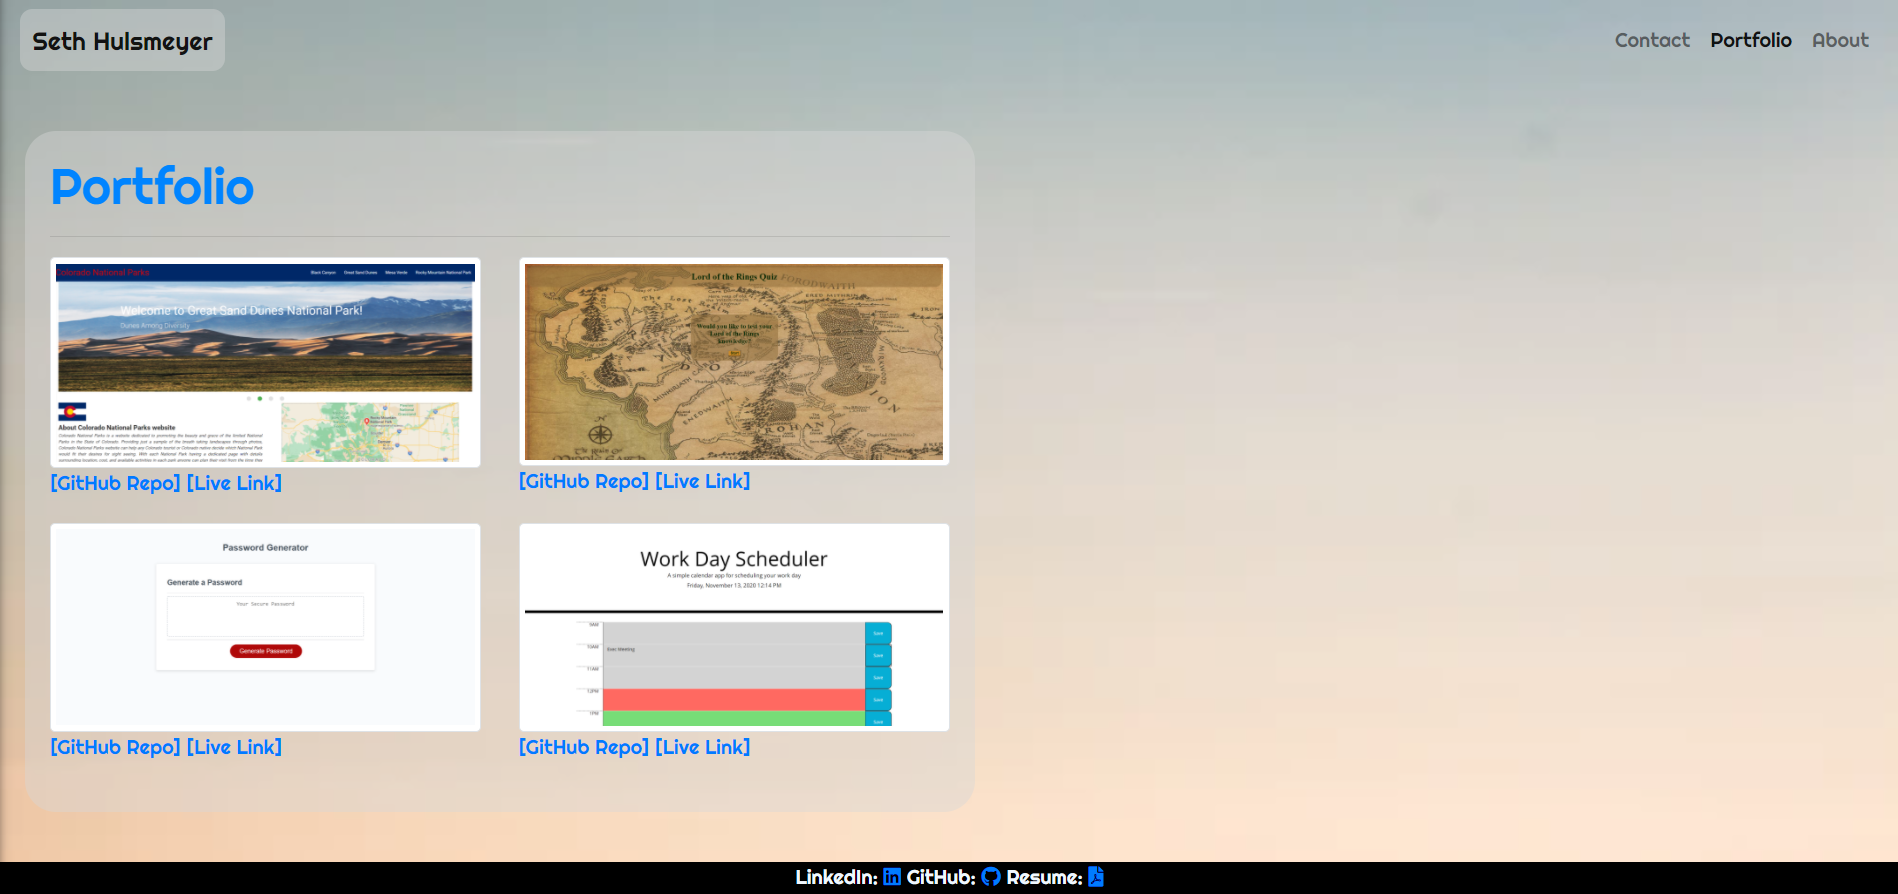
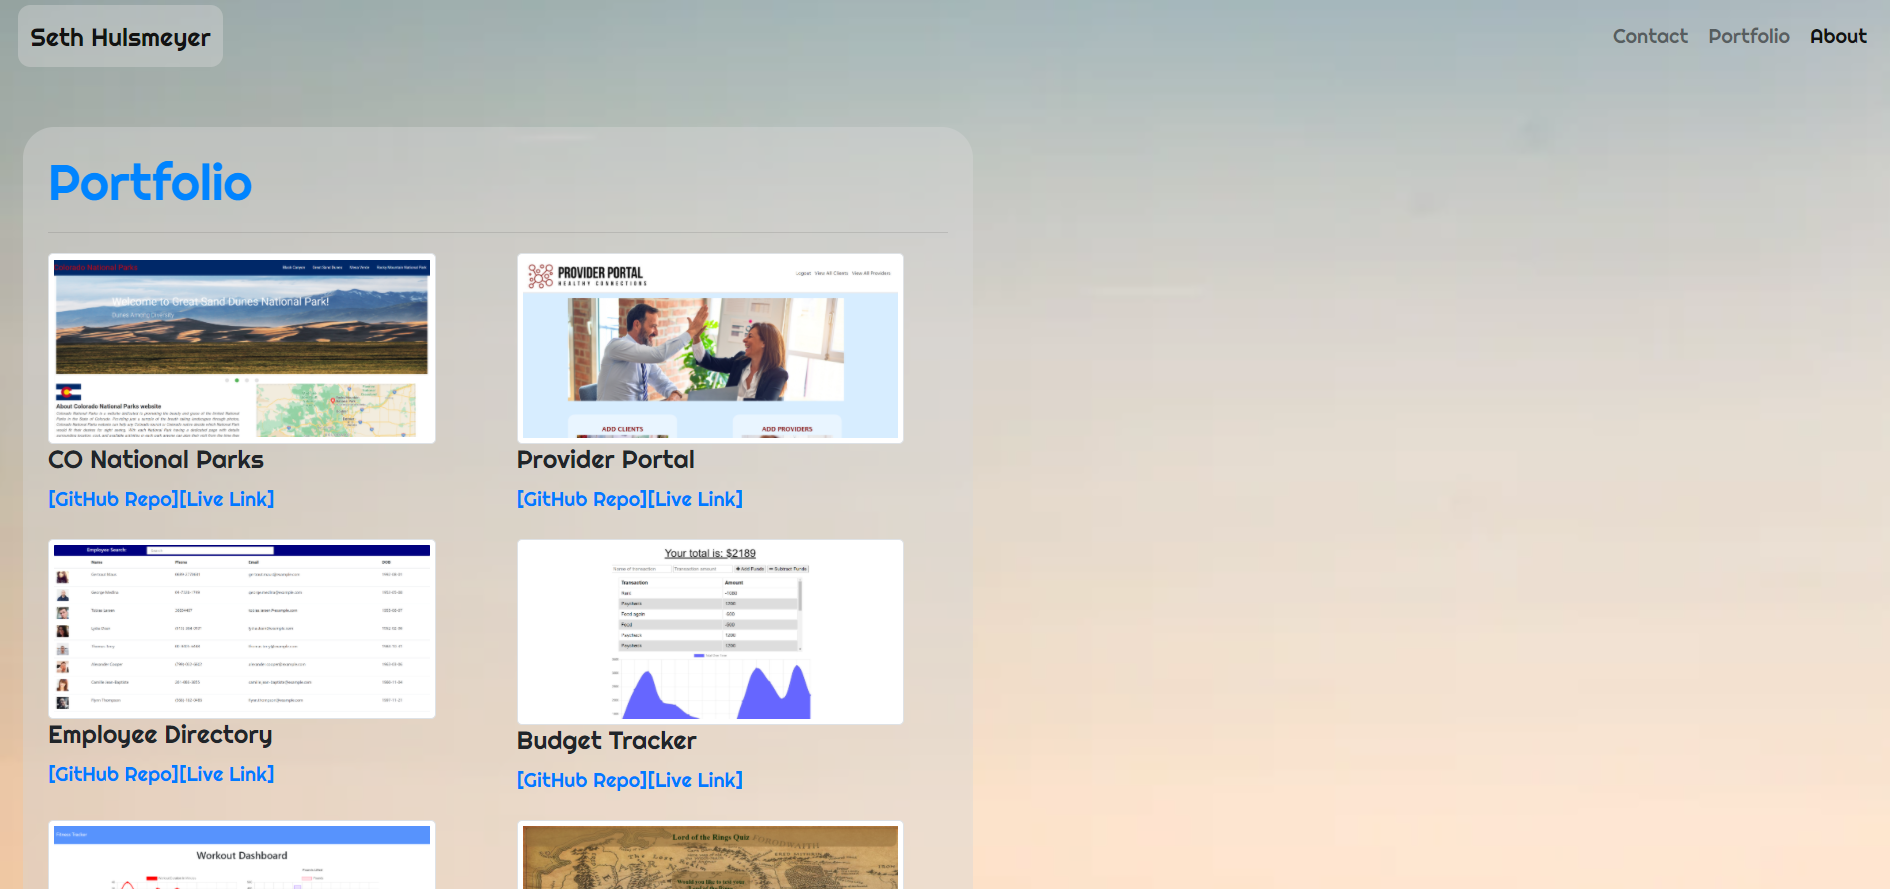
tweaked portfolio page, added info to README

diff --git a/src/components/Project.js b/src/components/Project.js
@@ -10,6 +10,7 @@ function Project(props) {
         alt={props.title}
         style={{ height: "90%", width: "90%" }}
       />
+      <h5>{props.title}</h5>
       <a className="inline-link" href={props.repo} target="_blank">
         [GitHub Repo]
       </a>

diff --git a/README.md b/README.md
@@ -1,1 +1,40 @@
-# Portfolio
+# <span style="color:darkgreen"> **Portfolio**</span>
+
+  ## Application Description:
+  > *This is my coding portfolio. It will evolve as my skills in full stack coding improve. The navbar on every page is reactive to the view portal's size. On the Main Page page you will find personal information about me and some ideas for this portfolio. On the Contact page you will find a form for users to enter in their contact information, as well as some of my contact information.On the Portfolio page you will find links to the GitHub repos and live links of some applications that I have made either by myself, or part of a team. The website is responsive to the smaller screens and works on mobile devices as well.The footer now has links to my LinkedIn and GitHub profiles, as well as a link to my resume which can be downloaded.*
+
+  Below are pictures of the Portfolio:
+  
+  ![Main Page](/assets/About_Capture.PNG)
+  ![Contact Page](/assets/Contact_capture.PNG)
+  ![Portfolio Page](/assets/Portfolio_capture.PNG)
+  ![Main Page](/assets/Small_capture.PNG)
+
+  ## Table of Contents:
+
+  * [Project Description](#description)
+  * [Installation Process](#installation)
+  * [Usage](#usage)
+  * [Technologies](#technologies)
+  * [License](#license)
+  * [Questions](#questions)
+  * [Creator Information](#creator)
+
+  ## Installation:
+  > *To properly install this application, a user can run 'npm i' in the terminal to download all of the necessary dependencies. Then they can run 'npm start' to kick off the application.*
+
+  ## Technologies:
+  > *This portfolio uses React, Hooks, and corresponding technologies.*
+
+  ## Contribution:
+  > *No contributions please.*
+
+  ## Questions:
+  If you have questions, please reach out using the following link
+  >[GitHub Profile](http://github.com/Seth-hulsmeyer)
+
+
+  ## Creator:
+  * <span style="color:green">**Name:**</span> Seth Hulsmeyer
+  * <span style="color:green">**GitHub Username:**</span> Seth-hulsmeyer
+  * <span style="color:green">**Email:**</span> seth.hulsmeyer@hotmail.com
